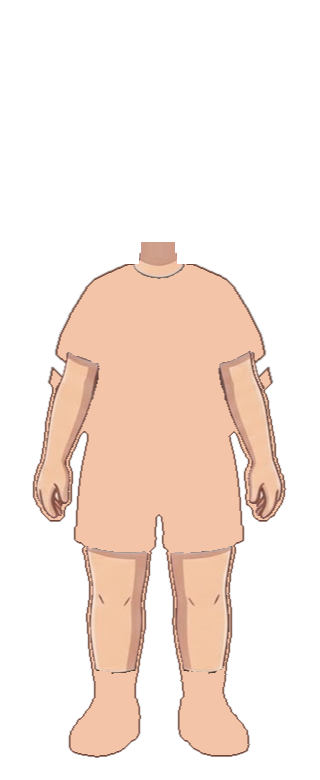
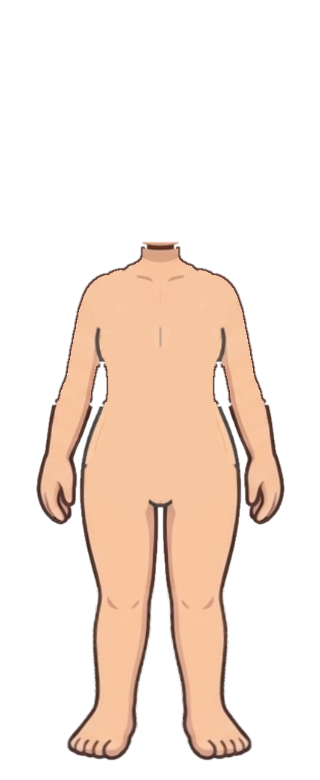
アバターの素体をいただいた絵に差しかえ（首から下を切り出し、前の体と同じ位置・大きさに）。靴をはいているときは素足のつま先が出ないように
Claude-Session: https://claude.ai/code/session_01VHjFEfwVTHCUbPqPQAxvxE

Changed region(s): [[0.0938, 0.3692, 0.9062, 0.9846], [0.2812, 0.3077, 0.6562, 0.3692], [0.6875, 0.3385, 0.7188, 0.3692]]

diff --git a/common/avatar-art.js b/common/avatar-art.js
@@ -54,6 +54,8 @@
   for (const [slot, list] of Object.entries(SHEET2)) list.forEach(([name, price], i) => CATALOG[slot].push([PFX[slot] + String(20 + i).padStart(2, '0'), name, price]));
   const isSheet = id => /^[htbs]\d{2,3}$/.test(id);
   // 素材シートの服・靴は、体がはみ出ないように 1.05倍。すその真ん中を中心に、上と横へ大きくする
+  // 靴をはいているときは、体の足（素体のはだし）を靴のはき口より少し下で消す（つま先がはみ出ないように）
+  const SHOETOP = {"s00_boy":664,"s00_girl":656,"s01_boy":663,"s01_girl":655,"s02_boy":648,"s02_girl":641,"s03_boy":641,"s03_girl":634,"s04_boy":634,"s04_girl":628,"s05_boy":608,"s05_girl":603,"s06_boy":612,"s06_girl":606,"s07_boy":616,"s07_girl":611,"s08_boy":604,"s08_girl":600,"s09_boy":612,"s09_girl":607,"s100_boy":662,"s100_girl":654,"s101_boy":662,"s101_girl":654,"s102_boy":661,"s102_girl":653,"s103_boy":669,"s103_girl":661,"s104_boy":659,"s104_girl":651,"s105_boy":657,"s105_girl":649,"s10_boy":669,"s10_girl":660,"s11_boy":672,"s11_girl":664,"s12_boy":665,"s12_girl":657,"s13_boy":662,"s13_girl":653,"s14_boy":653,"s14_girl":645,"s15_boy":649,"s15_girl":641,"s16_boy":651,"s16_girl":643,"s17_boy":653,"s17_girl":645,"s18_boy":652,"s18_girl":644,"s19_boy":637,"s19_girl":630,"s20_boy":645,"s20_girl":638,"s21_boy":643,"s21_girl":637,"s22_boy":650,"s22_girl":644,"s23_boy":651,"s23_girl":644,"s24_boy":652,"s24_girl":645,"s25_boy":656,"s25_girl":649,"s26_boy":655,"s26_girl":648,"s27_boy":654,"s27_girl":646,"s28_boy":662,"s28_girl":653,"s29_boy":652,"s29_girl":646,"s30_boy":661,"s30_girl":653,"s31_boy":662,"s31_girl":654,"s32_boy":659,"s32_girl":651,"s33_boy":664,"s33_girl":656,"s34_boy":635,"s34_girl":629,"s35_boy":641,"s35_girl":634,"s36_boy":635,"s36_girl":628,"s37_boy":647,"s37_girl":638,"s38_boy":632,"s38_girl":629,"s39_boy":644,"s39_girl":637,"s40_boy":640,"s40_girl":633,"s41_boy":640,"s41_girl":634,"s42_boy":630,"s42_girl":624,"s43_boy":631,"s43_girl":624,"s44_boy":656,"s44_girl":648,"s45_boy":658,"s45_girl":651,"s46_boy":658,"s46_girl":651,"s47_boy":655,"s47_girl":650,"s48_boy":661,"s48_girl":654,"s49_boy":673,"s49_girl":665,"s50_boy":651,"s50_girl":644,"s51_boy":654,"s51_girl":647,"s52_boy":666,"s52_girl":658,"s53_boy":633,"s53_girl":626,"s54_boy":627,"s54_girl":621,"s55_boy":631,"s55_girl":624,"s56_boy":621,"s56_girl":616,"s57_boy":625,"s57_girl":619,"s58_boy":629,"s58_girl":623,"s59_boy":630,"s59_girl":624,"s60_boy":637,"s60_girl":630,"s61_boy":636,"s61_girl":629,"s62_boy":635,"s62_girl":628,"s63_boy":640,"s63_girl":633,"s64_boy":627,"s64_girl":621,"s65_boy":630,"s65_girl":624,"s66_boy":631,"s66_girl":624,"s67_boy":641,"s67_girl":634,"s68_boy":636,"s68_girl":629,"s69_boy":639,"s69_girl":632,"s70_boy":638,"s70_girl":631,"s71_boy":634,"s71_girl":627,"s72_boy":631,"s72_girl":625,"s73_boy":634,"s73_girl":628,"s74_boy":634,"s74_girl":628,"s75_boy":629,"s75_girl":622,"s76_boy":636,"s76_girl":629,"s77_boy":635,"s77_girl":628,"s78_boy":684,"s78_girl":675,"s79_boy":680,"s79_girl":671,"s80_boy":685,"s80_girl":675,"s81_boy":690,"s81_girl":681,"s82_boy":683,"s82_girl":674,"s83_boy":681,"s83_girl":672,"s84_boy":689,"s84_girl":679,"s85_boy":687,"s85_girl":677,"s86_boy":640,"s86_girl":633,"s87_boy":650,"s87_girl":643,"s88_boy":639,"s88_girl":633,"s89_boy":641,"s89_girl":634,"s90_boy":639,"s90_girl":632,"s91_boy":632,"s91_girl":626,"s92_boy":645,"s92_girl":638,"s93_boy":652,"s93_girl":644,"s94_boy":655,"s94_girl":647,"s95_boy":673,"s95_girl":664,"s96_boy":666,"s96_girl":658,"s97_boy":659,"s97_girl":650,"s98_boy":662,"s98_girl":654,"s99_boy":655,"s99_girl":647,"boy_socks":682,"girl_socks":673};
   const GROW = 1.05, ANCHOR = {"b00_boy":[161,607],"b00_girl":[159,569],"b01_boy":[161,629],"b01_girl":[159,591],"b02_boy":[161,640],"b02_girl":[159,602],"b03_boy":[161,641],"b03_girl":[159,603],"b04_boy":[161,627],"b04_girl":[159,590],"b05_boy":[161,608],"b05_girl":[159,570],"b06_boy":[161,609],"b06_girl":[159,571],"b07_boy":[161,635],"b07_girl":[159,597],"b08_boy":[161,635],"b08_girl":[159,597],"b09_boy":[161,639],"b09_girl":[159,601],"b100_boy":[160,632],"b100_girl":[158,594],"b101_boy":[160,635],"b101_girl":[158,598],"b102_boy":[161,630],"b102_girl":[159,592],"b103_boy":[161,622],"b103_girl":[159,585],"b104_boy":[161,621],"b104_girl":[159,583],"b105_boy":[160,618],"b105_girl":[158,581],"b106_boy":[160,622],"b106_girl":[158,584],"b107_boy":[160,624],"b107_girl":[158,586],"b108_boy":[160,627],"b108_girl":[158,589],"b109_boy":[160,619],"b109_girl":[158,582],"b10_boy":[161,592],"b10_girl":[160,555],"b110_boy":[160,610],"b110_girl":[158,573],"b111_boy":[160,612],"b111_girl":[158,575],"b112_boy":[160,614],"b112_girl":[158,577],"b113_boy":[161,611],"b113_girl":[159,574],"b114_boy":[160,611],"b114_girl":[158,574],"b115_boy":[161,611],"b115_girl":[159,574],"b116_boy":[160,611],"b116_girl":[158,574],"b117_boy":[160,607],"b117_girl":[158,570],"b118_boy":[160,608],"b118_girl":[158,571],"b119_boy":[160,613],"b119_girl":[158,575],"b11_boy":[161,596],"b11_girl":[159,559],"b120_boy":[160,611],"b120_girl":[158,574],"b121_boy":[160,612],"b121_girl":[158,574],"b122_boy":[160,609],"b122_girl":[158,572],"b123_boy":[160,611],"b123_girl":[158,574],"b124_boy":[160,610],"b124_girl":[158,572],"b125_boy":[160,606],"b125_girl":[158,569],"b126_boy":[160,604],"b126_girl":[158,567],"b127_boy":[160,611],"b127_girl":[158,574],"b128_boy":[161,611],"b128_girl":[159,574],"b129_boy":[161,607],"b129_girl":[158,570],"b12_boy":[162,605],"b12_girl":[159,568],"b130_boy":[160,607],"b130_girl":[158,570],"b131_boy":[160,596],"b131_girl":[158,559],"b132_boy":[160,601],"b132_girl":[158,563],"b13_boy":[161,591],"b13_girl":[159,553],"b14_boy":[161,622],"b14_girl":[159,584],"b15_boy":[161,650],"b15_girl":[159,612],"b16_boy":[161,652],"b16_girl":[159,614],"b17_boy":[161,646],"b17_girl":[159,608],"b18_boy":[161,612],"b18_girl":[159,574],"b19_boy":[161,624],"b19_girl":[159,586],"b20_boy":[162,651],"b20_girl":[160,613],"b21_boy":[160,649],"b21_girl":[158,612],"b22_boy":[160,652],"b22_girl":[158,615],"b23_boy":[161,651],"b23_girl":[159,613],"b24_boy":[160,655],"b24_girl":[158,617],"b25_boy":[160,622],"b25_girl":[158,585],"b26_boy":[161,612],"b26_girl":[159,575],"b27_boy":[160,606],"b27_girl":[158,569],"b28_boy":[161,602],"b28_girl":[159,564],"b29_boy":[160,607],"b29_girl":[158,570],"b30_boy":[160,607],"b30_girl":[159,570],"b31_boy":[160,621],"b31_girl":[158,584],"b32_boy":[161,642],"b32_girl":[159,604],"b33_boy":[161,633],"b33_girl":[159,596],"b34_boy":[160,681],"b34_girl":[158,643],"b35_boy":[160,681],"b35_girl":[158,643],"b36_boy":[160,683],"b36_girl":[159,645],"b37_boy":[160,684],"b37_girl":[159,646],"b38_boy":[160,681],"b38_girl":[158,643],"b39_boy":[160,682],"b39_girl":[158,644],"b40_boy":[161,679],"b40_girl":[158,641],"b41_boy":[160,673],"b41_girl":[158,635],"b42_boy":[160,677],"b42_girl":[159,639],"b43_boy":[160,676],"b43_girl":[158,638],"b44_boy":[161,677],"b44_girl":[159,640],"b45_boy":[160,676],"b45_girl":[158,638],"b46_boy":[161,666],"b46_girl":[159,628],"b47_boy":[161,665],"b47_girl":[159,628],"b48_boy":[160,662],"b48_girl":[158,624],"b49_boy":[160,662],"b49_girl":[158,625],"b50_boy":[160,665],"b50_girl":[158,627],"b51_boy":[160,659],"b51_girl":[158,622],"b52_boy":[161,661],"b52_girl":[158,624],"b53_boy":[160,624],"b53_girl":[158,587],"b54_boy":[160,607],"b54_girl":[158,569],"b55_boy":[160,615],"b55_girl":[158,577],"b56_boy":[162,660],"b56_girl":[160,623],"b57_boy":[160,628],"b57_girl":[158,590],"b58_boy":[161,613],"b58_girl":[159,576],"b59_boy":[161,601],"b59_girl":[159,564],"b60_boy":[160,604],"b60_girl":[158,567],"b61_boy":[160,601],"b61_girl":[158,564],"b62_boy":[160,594],"b62_girl":[158,557],"b63_boy":[160,607],"b63_girl":[158,570],"b64_boy":[160,601],"b64_girl":[158,564],"b65_boy":[160,599],"b65_girl":[158,562],"b66_boy":[160,596],"b66_girl":[158,559],"b67_boy":[160,595],"b67_girl":[158,557],"b68_boy":[160,594],"b68_girl":[158,557],"b69_boy":[160,599],"b69_girl":[158,562],"b70_boy":[160,606],"b70_girl":[158,569],"b71_boy":[161,607],"b71_girl":[158,570],"b72_boy":[160,603],"b72_girl":[158,566],"b73_boy":[160,609],"b73_girl":[158,572],"b74_boy":[160,613],"b74_girl":[158,576],"b75_boy":[160,609],"b75_girl":[158,572],"b76_boy":[160,608],"b76_girl":[158,570],"b77_boy":[160,610],"b77_girl":[158,572],"b78_boy":[160,602],"b78_girl":[158,565],"b79_boy":[162,602],"b79_girl":[160,564],"b80_boy":[160,622],"b80_girl":[158,585],"b81_boy":[161,594],"b81_girl":[158,557],"b82_boy":[160,628],"b82_girl":[158,590],"b83_boy":[160,632],"b83_girl":[158,595],"b84_boy":[161,632],"b84_girl":[160,594],"b85_boy":[160,636],"b85_girl":[158,598],"b86_boy":[160,640],"b86_girl":[158,602],"b87_boy":[160,638],"b87_girl":[158,600],"b88_boy":[160,638],"b88_girl":[158,600],"b89_boy":[160,631],"b89_girl":[158,594],"b90_boy":[160,633],"b90_girl":[158,596],"b91_boy":[161,631],"b91_girl":[159,594],"b92_boy":[160,633],"b92_girl":[158,596],"b93_boy":[160,635],"b93_girl":[158,598],"b94_boy":[160,634],"b94_girl":[158,597],"b95_boy":[160,632],"b95_girl":[158,595],"b96_boy":[160,634],"b96_girl":[158,596],"b97_boy":[160,621],"b97_girl":[158,584],"b98_boy":[160,623],"b98_girl":[158,586],"b99_boy":[160,629],"b99_girl":[158,592],"s00_boy":[161,773],"s00_girl":[159,758],"s01_boy":[161,773],"s01_girl":[159,758],"s02_boy":[161,773],"s02_girl":[159,758],"s03_boy":[161,773],"s03_girl":[159,758],"s04_boy":[161,773],"s04_girl":[159,758],"s05_boy":[161,773],"s05_girl":[159,758],"s06_boy":[161,773],"s06_girl":[159,758],"s07_boy":[161,773],"s07_girl":[159,758],"s08_boy":[161,773],"s08_girl":[159,758],"s09_boy":[161,773],"s09_girl":[159,758],"s100_boy":[160,773],"s100_girl":[158,758],"s101_boy":[160,773],"s101_girl":[158,758],"s102_boy":[160,773],"s102_girl":[158,758],"s103_boy":[160,773],"s103_girl":[159,758],"s104_boy":[160,773],"s104_girl":[159,758],"s105_boy":[161,773],"s105_girl":[159,758],"s10_boy":[161,773],"s10_girl":[159,758],"s11_boy":[161,773],"s11_girl":[159,758],"s12_boy":[161,773],"s12_girl":[159,758],"s13_boy":[161,773],"s13_girl":[159,758],"s14_boy":[161,773],"s14_girl":[159,758],"s15_boy":[161,773],"s15_girl":[159,758],"s16_boy":[161,773],"s16_girl":[159,758],"s17_boy":[161,773],"s17_girl":[159,758],"s18_boy":[161,773],"s18_girl":[159,758],"s19_boy":[161,773],"s19_girl":[159,758],"s20_boy":[160,773],"s20_girl":[158,758],"s21_boy":[161,773],"s21_girl":[158,758],"s22_boy":[161,773],"s22_girl":[159,758],"s23_boy":[160,773],"s23_girl":[158,758],"s24_boy":[161,773],"s24_girl":[159,758],"s25_boy":[161,773],"s25_girl":[159,758],"s26_boy":[162,773],"s26_girl":[159,758],"s27_boy":[160,773],"s27_girl":[158,758],"s28_boy":[160,773],"s28_girl":[158,758],"s29_boy":[160,772],"s29_girl":[158,757],"s30_boy":[160,772],"s30_girl":[159,757],"s31_boy":[160,772],"s31_girl":[158,757],"s32_boy":[160,773],"s32_girl":[158,758],"s33_boy":[162,773],"s33_girl":[160,758],"s34_boy":[160,773],"s34_girl":[159,758],"s35_boy":[160,772],"s35_girl":[159,757],"s36_boy":[161,772],"s36_girl":[159,757],"s37_boy":[160,773],"s37_girl":[159,758],"s38_boy":[160,772],"s38_girl":[158,757],"s39_boy":[160,773],"s39_girl":[158,758],"s40_boy":[160,773],"s40_girl":[158,758],"s41_boy":[160,773],"s41_girl":[158,758],"s42_boy":[161,773],"s42_girl":[159,758],"s43_boy":[160,772],"s43_girl":[158,757],"s44_boy":[160,772],"s44_girl":[158,757],"s45_boy":[160,773],"s45_girl":[158,758],"s46_boy":[160,773],"s46_girl":[159,758],"s47_boy":[160,773],"s47_girl":[158,758],"s48_boy":[161,773],"s48_girl":[159,758],"s49_boy":[160,773],"s49_girl":[158,758],"s50_boy":[160,772],"s50_girl":[159,757],"s51_boy":[160,773],"s51_girl":[158,758],"s52_boy":[160,773],"s52_girl":[159,758],"s53_boy":[161,773],"s53_girl":[158,758],"s54_boy":[160,773],"s54_girl":[159,758],"s55_boy":[160,772],"s55_girl":[158,757],"s56_boy":[161,773],"s56_girl":[160,758],"s57_boy":[160,773],"s57_girl":[159,758],"s58_boy":[160,773],"s58_girl":[158,758],"s59_boy":[161,773],"s59_girl":[159,758],"s60_boy":[160,773],"s60_girl":[159,758],"s61_boy":[160,773],"s61_girl":[158,758],"s62_boy":[160,772],"s62_girl":[158,757],"s63_boy":[160,773],"s63_girl":[158,758],"s64_boy":[161,773],"s64_girl":[159,758],"s65_boy":[160,772],"s65_girl":[159,757],"s66_boy":[160,772],"s66_girl":[158,757],"s67_boy":[161,773],"s67_girl":[159,758],"s68_boy":[160,772],"s68_girl":[159,757],"s69_boy":[160,773],"s69_girl":[158,758],"s70_boy":[161,773],"s70_girl":[159,758],"s71_boy":[160,773],"s71_girl":[158,758],"s72_boy":[160,773],"s72_girl":[159,758],"s73_boy":[160,773],"s73_girl":[159,758],"s74_boy":[160,773],"s74_girl":[158,758],"s75_boy":[160,772],"s75_girl":[158,757],"s76_boy":[161,772],"s76_girl":[160,757],"s77_boy":[161,773],"s77_girl":[159,758],"s78_boy":[161,773],"s78_girl":[158,758],"s79_boy":[161,772],"s79_girl":[159,757],"s80_boy":[161,772],"s80_girl":[159,757],"s81_boy":[160,773],"s81_girl":[158,758],"s82_boy":[161,773],"s82_girl":[160,758],"s83_boy":[160,772],"s83_girl":[159,757],"s84_boy":[161,772],"s84_girl":[160,757],"s85_boy":[161,773],"s85_girl":[159,758],"s86_boy":[160,773],"s86_girl":[158,758],"s87_boy":[160,772],"s87_girl":[158,757],"s88_boy":[161,773],"s88_girl":[158,758],"s89_boy":[160,772],"s89_girl":[158,757],"s90_boy":[161,773],"s90_girl":[159,758],"s91_boy":[160,772],"s91_girl":[159,757],"s92_boy":[160,773],"s92_girl":[158,758],"s93_boy":[161,773],"s93_girl":[159,758],"s94_boy":[161,773],"s94_girl":[160,758],"s95_boy":[161,772],"s95_girl":[159,757],"s96_boy":[160,773],"s96_girl":[158,758],"s97_boy":[160,773],"s97_girl":[158,758],"s98_boy":[161,773],"s98_girl":[159,758],"s99_boy":[160,773],"s99_girl":[159,758],"t00_boy":[161,484],"t00_girl":[160,448],"t01_boy":[161,497],"t01_girl":[160,460],"t02_boy":[161,490],"t02_girl":[160,454],"t03_boy":[161,493],"t03_girl":[160,457],"t04_boy":[161,504],"t04_girl":[160,466],"t05_boy":[161,494],"t05_girl":[160,458],"t06_boy":[161,492],"t06_girl":[160,456],"t07_boy":[161,487],"t07_girl":[160,451],"t08_boy":[161,492],"t08_girl":[160,456],"t09_boy":[161,493],"t09_girl":[160,457],"t100_boy":[160,494],"t100_girl":[160,458],"t101_boy":[160,489],"t101_girl":[160,453],"t102_boy":[160,477],"t102_girl":[160,442],"t103_boy":[160,476],"t103_girl":[160,442],"t104_boy":[160,496],"t104_girl":[160,459],"t105_boy":[160,493],"t105_girl":[160,456],"t106_boy":[161,488],"t106_girl":[160,452],"t10_boy":[161,477],"t10_girl":[160,443],"t11_boy":[161,494],"t11_girl":[160,458],"t12_boy":[161,486],"t12_girl":[160,450],"t13_boy":[161,483],"t13_girl":[160,448],"t14_boy":[161,503],"t14_girl":[160,465],"t15_boy":[161,505],"t15_girl":[160,467],"t16_boy":[161,504],"t16_girl":[160,466],"t17_boy":[161,500],"t17_girl":[160,462],"t18_boy":[161,499],"t18_girl":[160,461],"t19_boy":[161,489],"t19_girl":[160,453],"t20_boy":[160,481],"t20_girl":[160,446],"t21_boy":[160,481],"t21_girl":[160,446],"t22_boy":[160,476],"t22_girl":[160,442],"t23_boy":[160,488],"t23_girl":[160,452],"t24_boy":[160,483],"t24_girl":[160,448],"t25_boy":[160,489],"t25_girl":[160,453],"t26_boy":[160,496],"t26_girl":[160,459],"t27_boy":[160,501],"t27_girl":[160,463],"t28_boy":[160,503],"t28_girl":[160,465],"t29_boy":[161,499],"t29_girl":[160,462],"t30_boy":[160,503],"t30_girl":[160,465],"t31_boy":[160,501],"t31_girl":[160,463],"t32_boy":[161,449],"t32_girl":[161,419],"t33_boy":[160,496],"t33_girl":[160,459],"t34_boy":[160,499],"t34_girl":[160,461],"t35_boy":[160,501],"t35_girl":[160,463],"t36_boy":[160,501],"t36_girl":[160,463],"t37_boy":[161,500],"t37_girl":[160,462],"t38_boy":[160,502],"t38_girl":[160,464],"t39_boy":[160,501],"t39_girl":[160,463],"t40_boy":[160,501],"t40_girl":[160,463],"t41_boy":[160,506],"t41_girl":[160,468],"t42_boy":[162,506],"t42_girl":[160,468],"t43_boy":[161,493],"t43_girl":[160,457],"t44_boy":[161,493],"t44_girl":[160,456],"t45_boy":[160,496],"t45_girl":[160,459],"t46_boy":[160,493],"t46_girl":[160,456],"t47_boy":[160,490],"t47_girl":[160,454],"t48_boy":[160,493],"t48_girl":[160,456],"t49_boy":[161,498],"t49_girl":[160,461],"t50_boy":[160,493],"t50_girl":[160,457],"t51_boy":[161,501],"t51_girl":[160,463],"t52_boy":[161,488],"t52_girl":[160,452],"t53_boy":[162,493],"t53_girl":[160,456],"t54_boy":[160,487],"t54_girl":[160,452],"t55_boy":[160,479],"t55_girl":[160,444],"t56_boy":[160,498],"t56_girl":[160,460],"t57_boy":[161,496],"t57_girl":[160,459],"t58_boy":[162,495],"t58_girl":[160,458],"t59_boy":[162,490],"t59_girl":[160,454],"t60_boy":[160,492],"t60_girl":[160,456],"t61_boy":[160,512],"t61_girl":[159,473],"t62_boy":[160,505],"t62_girl":[160,467],"t63_boy":[160,506],"t63_girl":[160,467],"t64_boy":[160,507],"t64_girl":[160,469],"t65_boy":[160,508],"t65_girl":[160,469],"t66_boy":[160,509],"t66_girl":[160,470],"t67_boy":[160,507],"t67_girl":[160,468],"t68_boy":[160,461],"t68_girl":[160,429],"t69_boy":[160,492],"t69_girl":[160,455],"t70_boy":[160,485],"t70_girl":[160,449],"t71_boy":[160,488],"t71_girl":[160,452],"t72_boy":[160,487],"t72_girl":[160,451],"t73_boy":[160,485],"t73_girl":[159,450],"t74_boy":[160,488],"t74_girl":[160,452],"t75_boy":[160,483],"t75_girl":[160,448],"t76_boy":[160,483],"t76_girl":[160,448],"t77_boy":[161,481],"t77_girl":[160,446],"t78_boy":[160,460],"t78_girl":[160,428],"t79_boy":[160,469],"t79_girl":[160,436],"t80_boy":[160,448],"t80_girl":[160,418],"t81_boy":[161,448],"t81_girl":[160,418],"t82_boy":[160,451],"t82_girl":[160,421],"t83_boy":[160,448],"t83_girl":[160,418],"t84_boy":[160,450],"t84_girl":[159,420],"t85_boy":[160,447],"t85_girl":[160,417],"t86_boy":[160,458],"t86_girl":[160,426],"t87_boy":[161,463],"t87_girl":[160,431],"t88_boy":[160,462],"t88_girl":[160,430],"t89_boy":[160,464],"t89_girl":[160,431],"t90_boy":[160,456],"t90_girl":[160,425],"t91_boy":[160,459],"t91_girl":[160,428],"t92_boy":[161,458],"t92_girl":[161,426],"t93_boy":[160,464],"t93_girl":[160,432],"t94_boy":[161,469],"t94_girl":[160,436],"t95_boy":[161,459],"t95_girl":[160,427],"t96_boy":[160,443],"t96_girl":[160,413],"t97_boy":[160,460],"t97_girl":[160,428],"t98_boy":[160,493],"t98_girl":[160,456],"t99_boy":[160,488],"t99_girl":[160,452]};
   // サーバーが持ち物を確かめる項目（値段のあるもの）
   // 背景（3672.png から切りぬき）。アバターの大きな絵のうしろに出る
@@ -100,8 +102,14 @@
     const tinted = (key, slot, ref) => { const col = COLOR[slot + ':' + l[slot]]; if (!col) return null; defs += tint(pre + key, col, ref); return key; };
     const fTop = isSheet(l.top) ? null : tinted('t', 'top', REF.top), fBot = isSheet(l.bottom) ? null : tinted('b', 'bottom', REF.bottom),
       fShoe = isSheet(l.shoes) ? null : tinted('s', 'shoes', REF.shoes), fHair = isSheet(l.hair) ? null : tinted('h', 'hairColor', REF.hair);
+    const shoeKey = isSheet(l.shoes) ? l.shoes + '_' + b : b + '_socks';
+    // 体の足は、靴のはき口より少し下で、ふわっと消す（まっすぐな切れ目が見えないように）
+    const cut = SHOETOP[shoeKey];
+    if (cut) defs += `<linearGradient id="${pre}fg" gradientUnits="userSpaceOnUse" x1="0" x2="0" y1="${cut + 8}" y2="${cut + 30}"><stop offset="0" stop-color="#fff"/><stop offset="1" stop-color="#000"/></linearGradient>` +
+      `<mask id="${pre}feet" maskUnits="userSpaceOnUse" x="0" y="0" width="${W}" height="${H}"><rect x="0" y="0" width="${W}" height="${H}" fill="url(#${pre}fg)"/></mask>`;
+    const body = cut ? `<g mask="url(#${pre}feet)">${img(b + '_body')}</g>` : img(b + '_body');
     return `<defs>${defs}</defs><ellipse cx="160" cy="752" rx="92" ry="12" fill="rgba(0,0,0,.16)"/>` +
-      img(b + '_body') + img(faceFile(l) + '_face') +
+      body + img(faceFile(l) + '_face') +
       (isSheet(l.bottom) ? img(l.bottom + '_' + b) : img(b + '_bottom', fBot)) +
       (isSheet(l.top) ? img(l.top + '_' + b) : img(b + '_top', fTop)) +
       (isSheet(l.shoes) ? img(l.shoes + '_' + b) : img(b + '_socks') + img(b + '_shoes', fShoe)) +

diff --git a/tools/avatar-cut/body2/body.py b/tools/avatar-cut/body2/body.py
@@ -1,0 +1,53 @@
+# 新しい素体（白い背景）から、首から下の体だけを切りぬいて、アバターのキャンバス（320×780）の前の体と同じ位置に置く
+import cv2, numpy as np
+from scipy import ndimage as ndi
+from PIL import Image
+CHIN = {'girl': 398, 'boy': 408}
+OLD = {'girl': (242, 759), 'boy': (241, 775)}   # 前の体：首の上・足の下
+for b in ['girl', 'boy']:
+    im = cv2.imread(f'src_{b}.png', cv2.IMREAD_UNCHANGED)[..., :3]; H, W = im.shape[:2]
+    hsv = cv2.cvtColor(im, cv2.COLOR_BGR2HSV); s, v = hsv[..., 1].astype(int), hsv[..., 2].astype(int)
+    # 背景：白〜灰色（色がうすい）で、外側につながっているところ（床の影も）
+    pale = (s < 30) & (v > 140)
+    lab, n = ndi.label(pale); edge = set(np.unique(np.concatenate([lab[0], lab[-1], lab[:, 0], lab[:, -1]]))) - {0}
+    bg = np.isin(lab, list(edge))
+    # 影（灰色のだ円）は足の下の外側にある。外とつながっていない灰色も、足より下なら消す
+    fg = ~bg
+    # 髪：こい茶色の太いところ（線は細いので残る）。穴（ハイライト）もうめる
+    dark = (v < 110)
+    hair = cv2.morphologyEx(dark.astype(np.uint8), cv2.MORPH_OPEN, np.ones((9, 9), np.uint8)).astype(bool)
+    hair = ndi.binary_fill_holes(cv2.dilate(hair.astype(np.uint8), np.ones((5, 5), np.uint8)).astype(bool))
+    # 髪のハイライト（少し明るい茶色）もまとめる：髪のまわりの、肌色ではない茶色
+    brown = (hsv[..., 0] < 25) & (s > 25) & (v < 170) & ~((s > 40) & (v > 150))
+    hair |= ndi.binary_dilation(hair, iterations=6) & brown
+    fg &= ~hair
+    fg[:CHIN[b]] = False                       # 頭は消す（顔は別の部品）
+    # いちばん大きなかたまりだけ（体）
+    lab2, n2 = ndi.label(fg); sz = ndi.sum(fg, lab2, range(1, n2 + 1)); fg = lab2 == (np.argmax(sz) + 1)
+    # 小さな穴だけうめる（腕と体のあいだのすき間は残す）
+    holes = ndi.binary_fill_holes(fg) & ~fg; hl, hn = ndi.label(holes)
+    if hn: hs = ndi.sum(holes, hl, range(1, hn + 1)); fg |= np.isin(hl, [i + 1 for i, v in enumerate(hs) if v < 400])
+    # 髪でかくれていた所は線がないので、外側に元の絵と同じ色の線を足す（線がすでにある所はそのまま）
+    ring = cv2.dilate(fg.astype(np.uint8), np.ones((5, 5), np.uint8)).astype(bool) & ~fg
+    lined = cv2.dilate((fg & (v < 120)).astype(np.uint8), np.ones((7, 7), np.uint8)).astype(bool)
+    add = ring & ~lined; add[:CHIN[b] + 6] = False
+    im = im.copy(); im[add] = (48, 58, 92)     # BGR：こげ茶の線
+    fg = fg | add
+    ys, xs = np.nonzero(fg); top, bot = CHIN[b], ys.max()
+    if b == 'girl':
+        # 女の子は、長い髪が向かって左の肩と腕にかかっているので、右半分を左右反転して左半分にする（体は左右対称）
+        c = int(round(np.median([(np.nonzero(fg[y])[0].min() + np.nonzero(fg[y])[0].max()) / 2 for y in range(900, 1000) if fg[y].any()])))
+        w = min(c, W - c)
+        R = im[:, c:c + w].copy(); Rm = fg[:, c:c + w].copy()
+        im = im.copy(); im[:, c - w:c] = R[:, ::-1]; fg = fg.copy(); fg[:, c - w:c] = Rm[:, ::-1]
+        ys, xs = np.nonzero(fg)
+    o0, o1 = OLD[b]; sc = (o1 - o0) / (bot - top)
+    cx = (xs.min() + xs.max()) / 2
+    a = (cv2.GaussianBlur(fg.astype(np.float32), (3, 3), 0) * 255)
+    rgba = np.dstack([im[..., ::-1].astype(np.float32) * (a[..., None] / 255), a])
+    sx = sc * min(1.0, 250 / ((xs.max() - xs.min()) * sc))   # 横はひろがりすぎないように（服のそでに収まる幅、手の先まで250まで）
+    M = np.float32([[sx, 0, 160 - cx * sx], [0, sc, o0 - top * sc]])
+    out = cv2.warpAffine(rgba, M, (320, 780), flags=cv2.INTER_AREA, borderValue=0)
+    al = np.clip(out[..., 3], 0, 255); rgb = np.where(al[..., None] > 0, out[..., :3] / np.maximum(al[..., None], 1) * 255, 0)
+    Image.fromarray(np.dstack([np.clip(rgb, 0, 255), al]).astype(np.uint8)).save(f'{b}_body.png')
+    print(b, 'scale', round(sc, 3), 'bbox', Image.open(f'{b}_body.png').getchannel('A').getbbox())

diff --git a/tools/avatar-cut/sheets2/anchor.py b/tools/avatar-cut/sheets2/anchor.py
@@ -6,6 +6,16 @@ for f in sorted(glob.glob('/home/claude/igo-battle/img/avatar/[tbs][0-9]*_*.webp
     if not re.match(r'^[tbs]\d{2,3}_(girl|boy)$', k): continue
     bb = Image.open(f).getchannel('A').point(lambda v: 255 if v > 40 else 0).getbbox()
     A[k] = [round((bb[0] + bb[2]) / 2), bb[3]]
+# 靴の「はき口」の高さ：まん中あたり（左右の足の所）で、いちばん上に絵がある所
+import numpy as np
+T = {}
+for f in sorted(glob.glob('/home/claude/igo-battle/img/avatar/s[0-9]*_*.webp')) + glob.glob('/home/claude/igo-battle/img/avatar/*_socks.png'):
+    k = f.split('/')[-1].rsplit('.', 1)[0]
+    if not re.match(r'^(s\d{2,3}_(girl|boy)|(girl|boy)_socks)$', k): continue
+    a = np.asarray(Image.open(f).getchannel('A')) > 60
+    cols = a[:, 110:210]; ys = np.nonzero(cols.any(1))[0]
+    T[k] = int(np.percentile([np.nonzero(cols[:, c])[0].min() for c in range(cols.shape[1]) if cols[:, c].any()], 50)) if len(ys) else 780
 p = '/home/claude/igo-battle/common/avatar-art.js'; s = open(p).read()
+s = re.sub(r'SHOETOP = \{[^;]*\};', 'SHOETOP = ' + json.dumps(T, separators=(',', ':')) + ';', s, count=1)
 s = re.sub(r'ANCHOR = \{[^;]*\};', 'ANCHOR = ' + json.dumps(A, separators=(',', ':')) + ';', s, count=1)
 open(p, 'w').write(s); print(len(A))

diff --git a/tools/avatar-cut/body2/spread.py b/tools/avatar-cut/body2/spread.py
@@ -1,0 +1,17 @@
+# 新しい素体の足を、前の素体の足と同じ位置まで少しずつ外へ広げる（靴が前の足の位置に合わせてあるため）
+#   股より下（Y0）から足の下まで、左足は左へ・右足は右へ、下に行くほど大きく動かす
+import numpy as np, cv2
+from PIL import Image
+D = {'girl': (17, 15), 'boy': (27, 27)}      # 足の下での動かす量（左・右）
+Y0, Y1 = 575, 760
+for b, (dl, dr) in D.items():
+    im = np.asarray(Image.open(f'{b}_body.png').convert('RGBA')).astype(np.float32)
+    H, W = im.shape[:2]; yy, xx = np.mgrid[0:H, 0:W].astype(np.float32)
+    k = np.clip((yy - Y0) / (Y1 - Y0), 0, 1); k = k * k * (3 - 2 * k)       # なめらかに
+    dx = np.where(xx < 160, -dl * k, dr * k)
+    src_x = xx - dx
+    # 真ん中で左右がまざらないように：左の画素は左半分からだけ、右は右半分からだけ
+    src_x = np.where(xx < 160, np.minimum(src_x, 159.5), np.maximum(src_x, 160.5))
+    out = cv2.remap(im, src_x, yy, cv2.INTER_LINEAR, borderValue=0)
+    Image.fromarray(np.clip(out, 0, 255).astype(np.uint8)).save(f'/home/claude/igo-battle/img/avatar/{b}_body.png')
+    print(b, 'ok')
